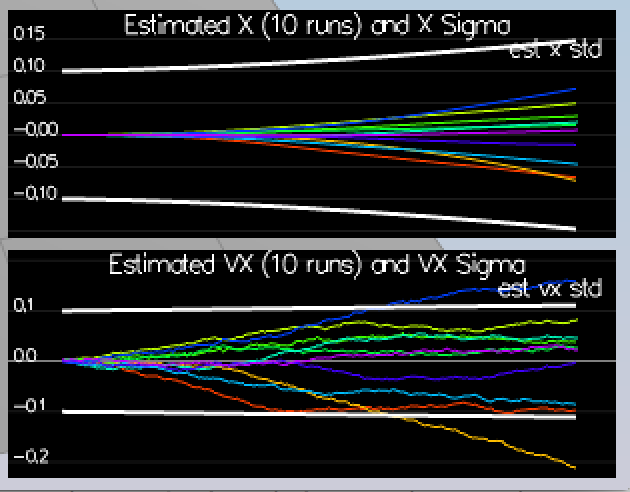
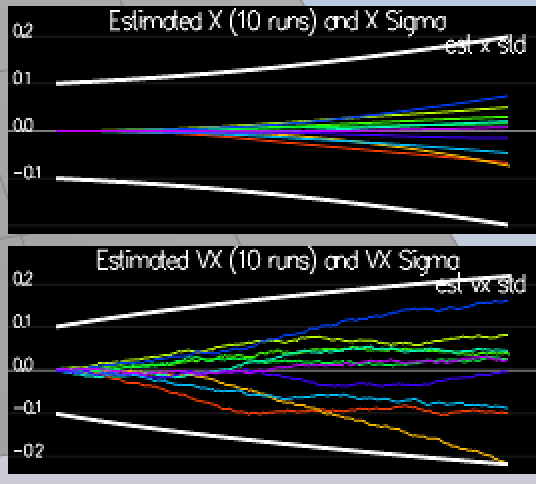
completed magUpdate()

diff --git a/src/QuadEstimatorEKF.cpp b/src/QuadEstimatorEKF.cpp
@@ -264,15 +264,15 @@ void QuadEstimatorEKF::Predict(float dt, V3F accel, V3F gyro)
   gPrime.setIdentity();
 
   ////////////////////////////// BEGIN STUDENT CODE ///////////////////////////
-    
+
      gPrime(0,3) = dt;
      gPrime(1,4) = dt;
      gPrime(2,5) = dt;
-    
+
      gPrime(3,6) = (RbgPrime(0) * accel).sum() * dt;
      gPrime(4,6) = (RbgPrime(1) * accel).sum() * dt;
      gPrime(5,6) = (RbgPrime(2) * accel).sum() * dt;
-    
+
      ekfCov = gPrime * ekfCov * gPrime.transpose() + Q;
 
 
@@ -300,6 +300,9 @@ void QuadEstimatorEKF::UpdateFromGPS(V3F pos, V3F vel)
   //  - this is a very simple update
   ////////////////////////////// BEGIN STUDENT CODE ///////////////////////////
 
+
+
+
   /////////////////////////////// END STUDENT CODE ////////////////////////////
 
   Update(z, hPrime, R_GPS, zFromX);
@@ -321,6 +324,16 @@ void QuadEstimatorEKF::UpdateFromMag(float magYaw)
   //  - The magnetomer measurement covariance is available in member variable R_Mag
   ////////////////////////////// BEGIN STUDENT CODE ///////////////////////////
 
+    float current_yaw = ekfState(6);
+    float diff = magYaw - current_yaw;
+    if(diff < -F_PI) {
+      current_yaw -= 2.f*F_PI;
+    } else if (diff > F_PI) {
+      current_yaw += 2.f*F_PI;
+    }
+
+    zFromX(0) = current_yaw;
+    hPrime(0, 6) = 1;
 
   /////////////////////////////// END STUDENT CODE ////////////////////////////
 

diff --git a/README.md b/README.md
@@ -262,11 +262,15 @@ I implemented `UpdateIMU()` using the Quaternions class in the [Estimator](./src
 
 ### Predict State ###
 
-To implement this method, I passed in the current state, delta time, and the acceleration and body rates.  The acceleration and body rates are measured by the sensors so they are referenced in the body frame.  To integrate the new states, i had to convert to the world/inertial frame.  I did this using a Quaternion in [QuadEstimatorEKF](./src/Utility/QuadEstimatorEKF.cpp#L171-L184)
+To implement this method, I passed in the current state, delta time, and the acceleration and body rates.  The acceleration and body rates are measured by the sensors so they are referenced in the body frame.  To integrate the new states, i had to convert to the world/inertial frame.  I did this using a Quaternion in [QuadEstimatorEKF](./QuadEstimatorEKF.cpp#L171-L184)
 
 Scenario 8 produced the following output in the simulator:
 
 ![prediction](./animations/Predict.png)
+
+I tuned parameters as such:
+  - `QPosXYStd = .02`
+  - `QVelXYStd = 0.2`
 
 ### Jacobians and Transition Function ###
 
@@ -278,9 +282,17 @@ After implementing the transition function `Predict()` which utilizes the Rotati
 
 ![updatingCov](./animations/covariance_predicted.png)
 
-  - `PredictState` implemented in [QuadEstimatorEKF](./src/QuadEstimatorEKF.cpp#L171-L184)
-  - `GetRbgPrime` implemented in [QuadEstimatorEKF](./src/QuadEstimatorEKF.cpp#L208-L223)
-  - `Predict` implemented in [QuadEstimatorEKF](./src/QuadEstimatorEKF.cpp#L266-L279)
+  - `PredictState` implemented in [QuadEstimatorEKF](./QuadEstimatorEKF.cpp#L171-L184)
+  - `GetRbgPrime` implemented in [QuadEstimatorEKF](./QuadEstimatorEKF.cpp#L208-L223)
+  - `Predict` implemented in [QuadEstimatorEKF](./QuadEstimatorEKF.cpp#L266-L279)
+
+### Magnetometer ###
+
+In Scenario 10, I implemented `UpdateFromMag()` that takes in the measured yaw angle, normalizes, builds an hPrime vector, and then updates the state.  The [implementation](./QuadEstimatorEKF.cpp#L325-L338) passes yaw error test of staying within 0.1 degrees of the true value.
+
+![updatingMag](./animations/mag_update.png)
+
+
 
 
 ## Authors ##
